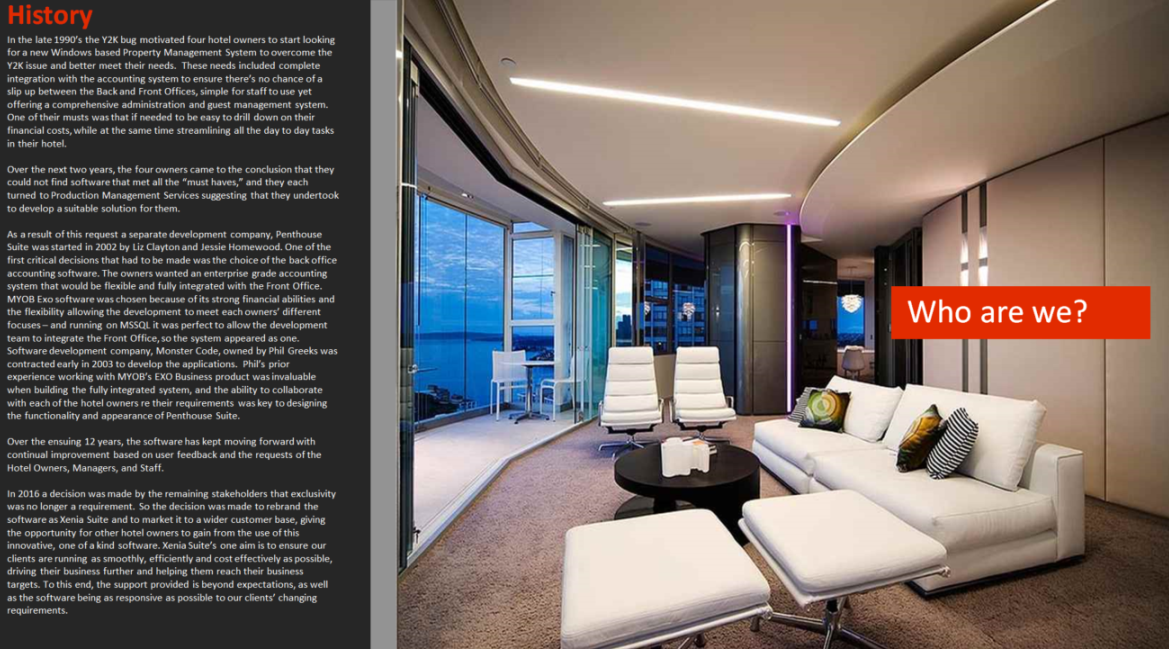
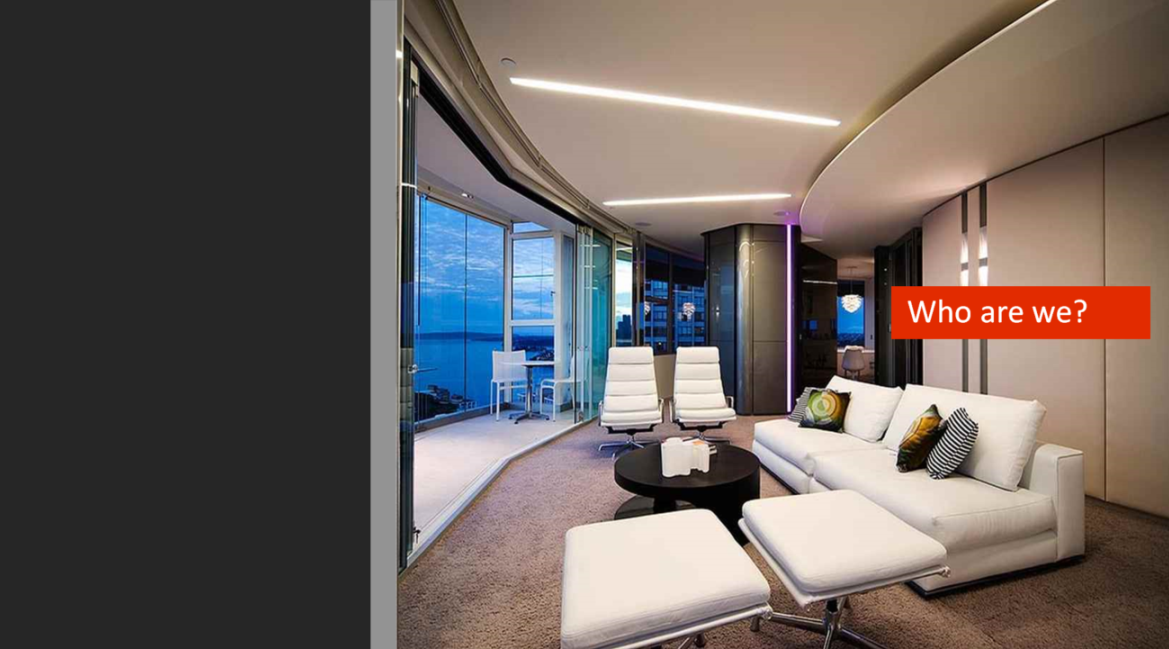
Add test page - for new layout for about page

Changed region(s): [[0.0, 0.0, 0.308, 0.6471], [0.0, 0.678, 0.2772, 0.9553]]

diff --git a/src/components/test/TestPage.js b/src/components/test/TestPage.js
@@ -1,0 +1,42 @@
+import React, {Component} from 'react';
+import DrawerHelper from '../common/services/DrawerHelper';
+
+class TestPage extends Component {
+    constructor(props) {
+        super(props);
+
+    }
+
+    componentDidUpdate() {
+        let drawerHelper = new DrawerHelper(document);
+        drawerHelper.toggle();
+    }
+
+    render() {
+        return (
+            <main
+                className='mdl-layout__content  demo-layout-transparent'
+                style={{
+                background: 'url(../images/about.png) center right',
+                backgroundRepeat: 'no-repeat',
+                backgroundSize: 'contain',
+                backgroundColor: '#262626',
+                fontFamily:'Calibri'
+            }}>
+                <div className="mdl-grid">
+                    <div className="mdl-cell mdl-cell--5-col-desktop mdl-cell--8-col-tablet mdl-cell--12-col-phone" style={{backgroundColor:'#262626'}}>
+                        <h1 clsssName='mdl-layout-title' style={{color:'#E22B00', fontWeight: 'bold'}}>History</h1>
+                        <p>In the late 1990’s the Y2K bug motivated four hotel owners to start looking for a new Windows based Property Management System to overcome the Y2K issue and better meet their needs.  These needs included complete integration with the accounting system to ensure there’s no chance of a slip up between the Back and Front Offices, simple for staff to use yet offering a comprehensive administration and guest management system.  One of their musts was that if needed to be easy to drill down on their financial costs, while at the same time streamlining all the day to day tasks in their hotel.</p>
+                        <p>could not find software that met all the “must haves,” and they each turned to Production Management Services suggesting that they undertook to develop a suitable solution for them. </p>
+                        <p>As a result of this request a separate development company, Penthouse Suite was started in 2002 by Liz Clayton and Jessie Homewood. One of the first critical decisions that had to be made was the choice of the back office accounting software. The owners wanted an enterprise grade accounting system that would be flexible and fully integrated with the Front Office. MYOB Exo software was chosen because of its strong financial abilities and the flexibility allowing the development to meet each owners’ different focuses – and running on MSSQL it was perfect to allow the development team to integrate the Front Office, so the system appeared as one. Software development company, Monster Code, owned by Phil Greeks was contracted early in 2003 to develop the applications.  Phil’s prior experience working with MYOB’s EXO Business product was invaluable when building the fully integrated system, and the ability to collaborate with each of the hotel owners re their requirements was key to designing the functionality and appearance of Penthouse Suite.</p>
+                        <p>Over the ensuing 12 years, the software has kept moving forward with continual improvement based on user feedback and the requests of the Hotel Owners, Managers, and Staff.  </p>
+                        <p>In 2016 a decision was made by the remaining stakeholders that exclusivity was no longer a requirement. So the decision was made to rebrand the software as Xenia Suite and to market it to a wider customer base, giving the opportunity for other hotel owners to gain from the use of this innovative, one of a kind software. Xenia Suite’s one aim is to ensure our clients are running as smoothly, efficiently and cost effectively as possible, driving their business further and helping them reach their business targets. To this end, the support provided is beyond expectations, as well as the software being as responsive as possible to our clients’ changing requirements.</p>
+                    </div>
+                </div>
+            </main>
+        );
+    }
+}
+
+export default TestPage;
+

diff --git a/src/routes.js b/src/routes.js
@@ -5,6 +5,7 @@ import HomePage from './components/home/HomePage';
 import AboutPage from './components/about/AboutPage';
 import VisionPage from './components/vision/VisionPage';
 import TestimonialPage from './components/testimonial/TestimonialPage';
+import TestPage from './components/test/TestPage';
 
 export default (
   <Route path="/" component={App}>
@@ -12,5 +13,6 @@ export default (
     <Route path="about" component={AboutPage} />
     <Route path="testimonial" component={TestimonialPage} />
     <Route path="vision" component={VisionPage} />
+    <Route path="test" component={TestPage} />
   </Route>
 );

diff --git a/src/components/about/AboutPage.js b/src/components/about/AboutPage.js
@@ -14,7 +14,7 @@ class AboutPage extends Component {
 
     render() {
         return (
-            <main className='mdl-layout__content  demo-layout-transparent' style={{background: 'url(../images/about.png) center', backgroundRepeat: 'no-repeat', backgroundSize: 'contain'}}></main>
+            <main className='mdl-layout__content  demo-layout-transparent' style={{background: 'url(../images/about1.png) center', backgroundRepeat: 'no-repeat', backgroundSize: 'contain'}}></main>
         );
     }
 }

diff --git a/src/styles/App.css b/src/styles/App.css
@@ -120,3 +120,7 @@ border-bottom: 42px solid red;
 .mdl-button--fab.mdl-button--colored:hover {
     background-color: rgb(244,67,54);
 }
+
+.content-grid{
+  max-width: 960px;
+}
